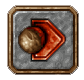
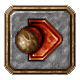
2
2

diff --git a/project/Helper.py b/project/Helper.py
@@ -82,23 +82,23 @@ GO = {"x": 399,
       "w": 75,
       "h": 75,
       "imp": "Images/Button_NextWave.png",
-      "ima": "Images/Button_NextWave.png",
+      "ima": "Images/Button_NextWave_Clicked.png",
       "statechange": STATEGO}
 
 DELETE = {"x": 530,
       "y": 480,
       "w": 75,
       "h": 75,
-      "imp": "Images/Button_NextWave.png",
-      "ima": "Images/Button_NextWave.png",
+      "imp": "Images/Button_Delete.png",
+      "ima": "Images/Button_Delete_Clicked.png",
       "statechange": STATEDELETE}
 
 UPGRADE = {"x": 640,
            "y": 480,
            "w": 75,
            "h": 75,
-          "imp": "Images/Button_NextWave.png",
-          "ima": "Images/Button_NextWave.png",
+          "imp": "Images/Button_Upgrade.png",
+          "ima": "Images/Button_Upgrade_Clicked.png",
            "statechange": STATEUPGRADE}
 WAVES = {0: {"hp": 0,
              "count": 0,
@@ -150,12 +150,12 @@ WAVES = {0: {"hp": 0,
              "spawnrate": 20,
              "im": "Images/minion.bmp"}}
 
-LABELPOS = {"score": (600, 50),
-            "lifes": (600, 70),
-            "money": (620, 50),
-            "console": (100, 500),
+LABELPOS = {"score": (681, 74),
+            "lifes": (587, 113),
+            "money": (681, 113),
+            "console": (57, 525),
             "info": (600, 400),
-            "level": (620, 70)}
+            "level": (587, 74)}
 
 
 def postocoord(pos):
@@ -167,9 +167,10 @@ def animations(pygame, path):
     for i in range(0, 4):
         anim = []
         for j in range(0, 4):
-            rect = pygame.Rect(15 * i, 15 * j, 15, 15)
-            image = pygame.Surface(rect.size).convert()
-            image.blit(pygame.image.load(path).convert(), (0, 0), rect)
+            rect = pygame.Rect(25 * j, 25 * i, 25, 25)
+            image = pygame.Surface(rect.size, pygame.SRCALPHA, 32)
+            image = image.convert_alpha()
+            image.blit(pygame.image.load(path), (0, 0), rect)
             anim.append(image)
         sprites.update({i: anim})
     return sprites

diff --git a/project/TowerDefense.py b/project/TowerDefense.py
@@ -47,7 +47,7 @@ def main():
 
     level = 0
 
-    myfont = pygame.font.SysFont("None", 12)
+    myfont = pygame.font.SysFont("Verdana", 11)
 
     label_score = UI.Text(Helper.LABELPOS["score"], myfont)
     label_lifes = UI.Text(Helper.LABELPOS["lifes"], myfont)
@@ -159,7 +159,10 @@ def main():
                 if state == Helper.STATETOWER2:
                     preview = getPreview(player, fields, event.pos, Helper.TOWER2DATA)
 
-        player.removeLifes(wave.update(pathdict))
+        lifes = wave.update(pathdict)
+        if lifes > 0:
+            player.removeLifes(lifes)
+            console_text.append("gezwirbelt" + str(player.getLifes()))
         minionpos = wave.minionpositions()
         for t in turrets:
             for m in minionpos:
@@ -179,9 +182,8 @@ def main():
         label_lifes.setText([str(player.getLifes())]).draw(screen)
         label_money.setText([str(player.getMoney())]).draw(screen)
         label_level.setText([str(level)]).draw(screen)
-        if console_text.__len__() > 4:
-            label_console.setText([console_text[console_text.__len__() - 4],
-                                  console_text[console_text.__len__() - 3],
+        if console_text.__len__() > 3:
+            label_console.setText([console_text[console_text.__len__() - 3],
                                   console_text[console_text.__len__() - 2],
                                   console_text[console_text.__len__() - 1]]).draw(screen)
         else:

diff --git a/project/GameObject.py b/project/GameObject.py
@@ -18,8 +18,8 @@ class Wave(object):
                              "start": self.__start}
 
     def draw(self, screen, fielddata):
-        for m in self.__minions:
-            m.draw(screen, fielddata)
+        for i in range(0, self.__minions.__len__()):
+            self.__minions[self.__minions.__len__() - 1 - i].draw(screen, fielddata)
 
     def update(self, pathdict):
         self.__pathdict = pathdict
@@ -77,14 +77,22 @@ class Minion(object):
         self.__y += self.__dir[1] / float(self.__speed * self.__freeze)
 
     def draw(self, screen, fielddata):
+        if self.__dir[0] is 1:
+            i = 3
+        if self.__dir[0] is -1:
+            i = 2
+        if self.__dir[1] is 1:
+            i = 1
+        if self.__dir[1] is -1:
+            i = 0
         self.__imageticker -= 1
         if self.__imageticker is 0:
-            self.__imageticker = 5
+            self.__imageticker = 7
             if self.__imageindex < 3:
                 self.__imageindex += 1
             else:
                 self.__imageindex = 0
-        screen.blit(self.__im[0][self.__imageindex], (int(fielddata["offsetX"] + fielddata["cellW"] * self.__x),
+        screen.blit(self.__im[i][self.__imageindex].convert_alpha(), (int(fielddata["offsetX"] + fielddata["cellW"] * self.__x),
                                 int(fielddata["offsetY"] + fielddata["cellH"] * self.__y)))
 
     def pos(self):

diff --git a/project/UI.py b/project/UI.py
@@ -85,8 +85,8 @@ class Text(object):
 
     def draw(self, screen):
         for t in self.__text:
-            text = self.__font.render(t, 1, (0, 0, 0))
-            screen.blit(text, (self.__pos[0], self.__pos[1] + self.__text.index(t) * self.__font.size(t)[1] * 2))
+            text = self.__font.render(t, 1, (255, 255, 255))
+            screen.blit(text, (self.__pos[0], self.__pos[1] + self.__text.index(t) * self.__font.size(t)[1]))
 
 
 
